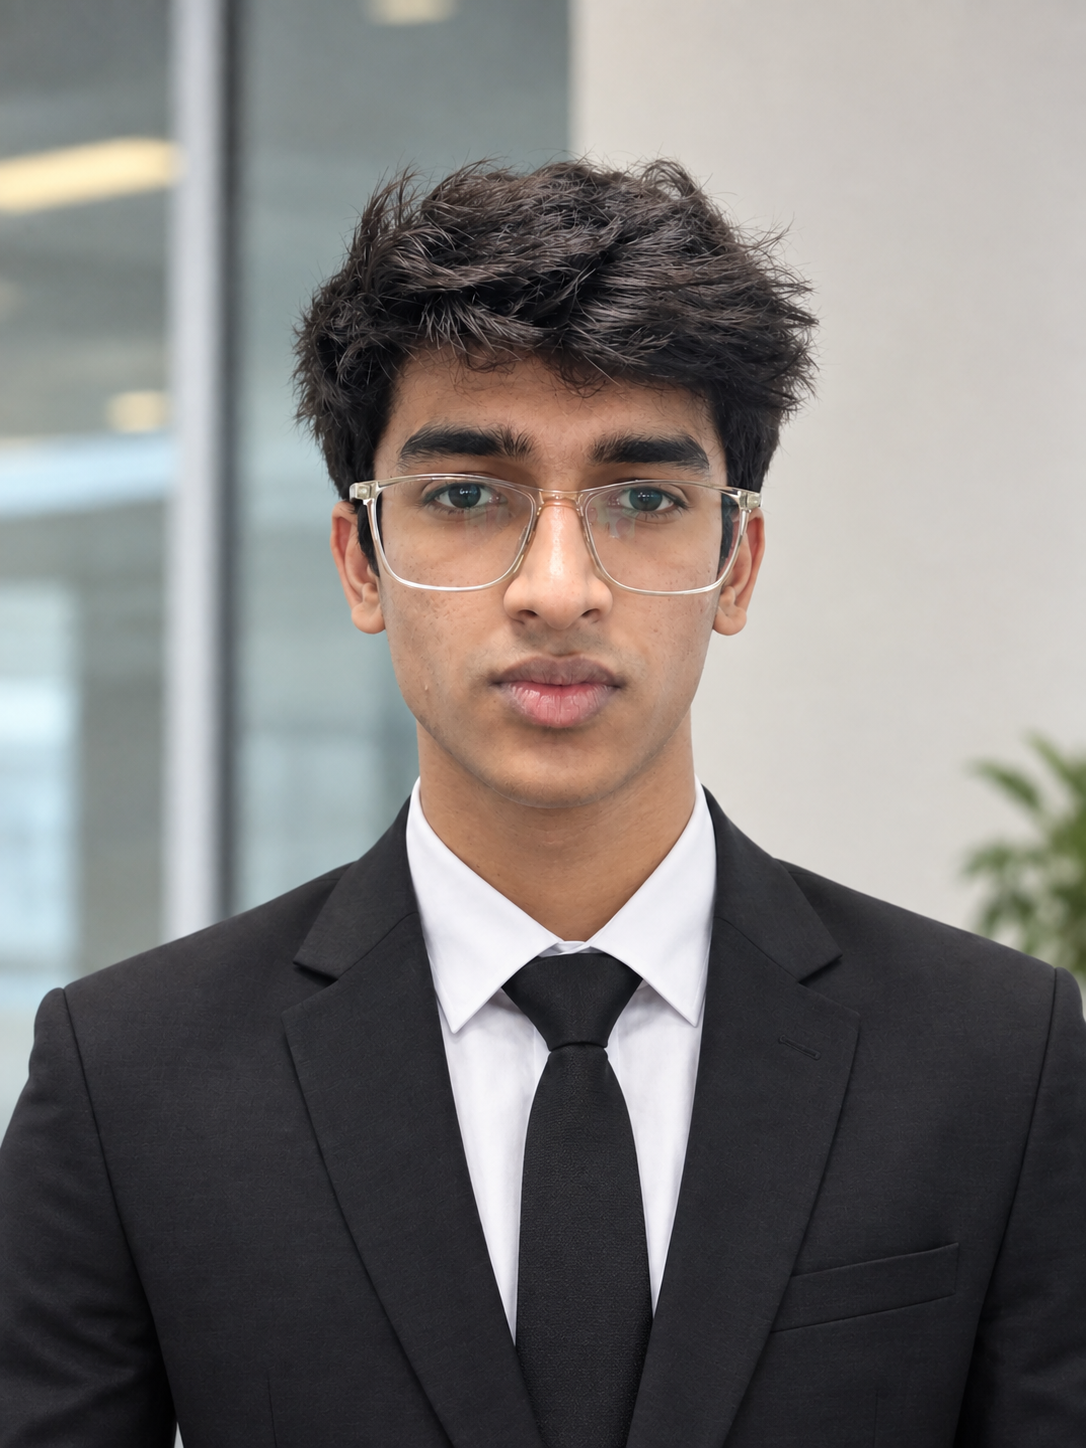
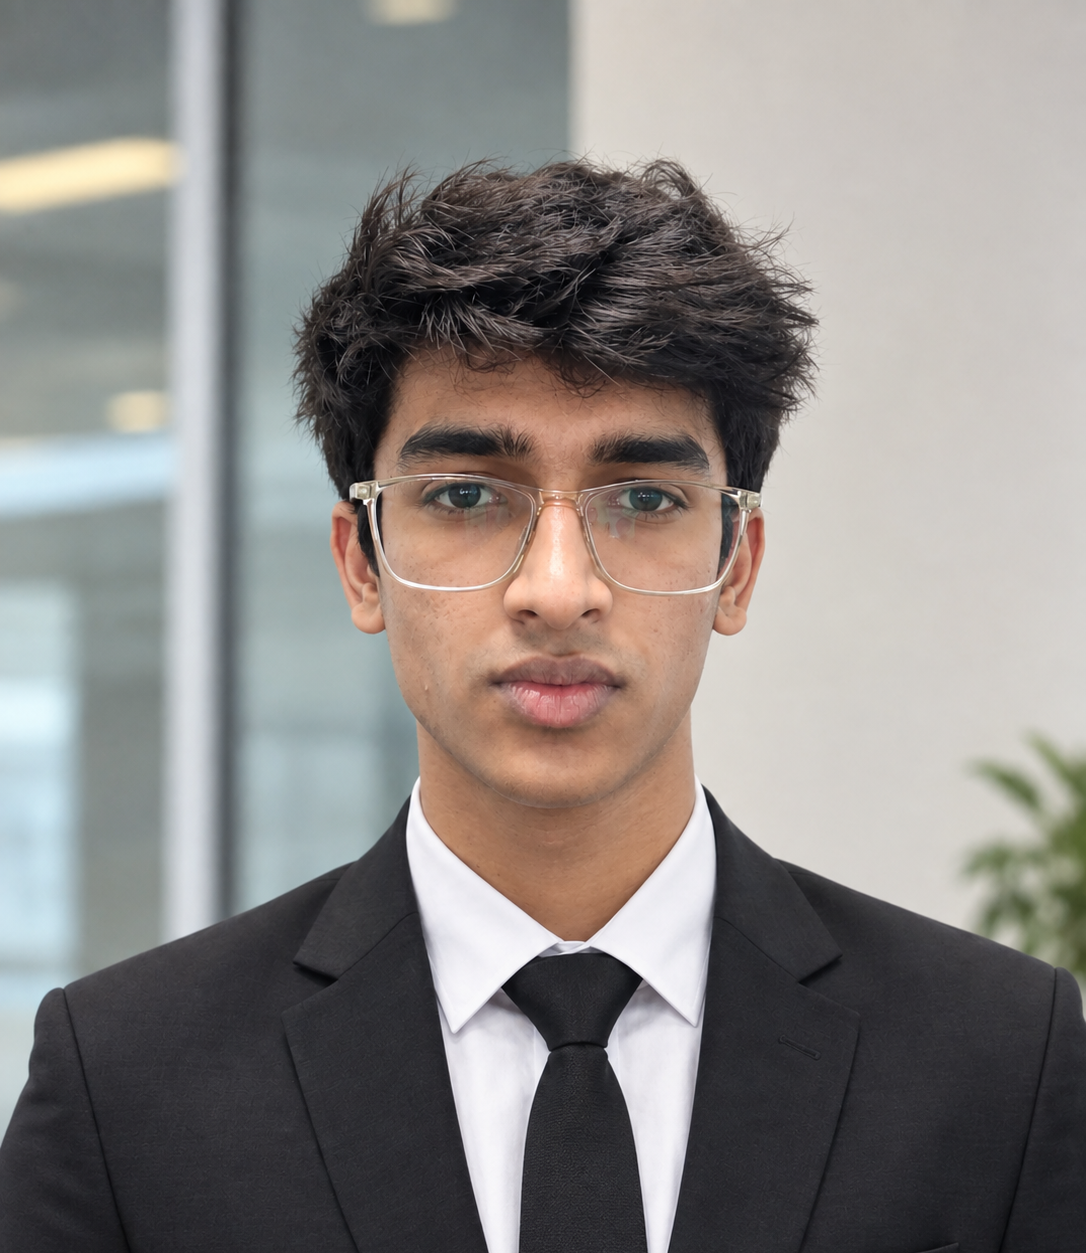
added the existing images some more to go....

diff --git a/src/data/teamData.js b/src/data/teamData.js
@@ -57,15 +57,31 @@ import ajitesh_jain from '../assets/Team-2025-2026/photo/ajitesh_jain.jpg';
 import tanishka_jaiswal from '../assets/Team-2025-2026/photo/tanishka_jaiswal.jpg';
 import tavleen_kaur from '../assets/Team-2025-2026/photo/tavleen_kaur.jpeg';
 
-// Team Members 2026-2027 (placeholders)
+// Team Members 2026-2027
+// Core team members
 import Aayush from '../assets/Team-2026-2027/Id_Card_Photos_GFG/Core/Aayush.jpg';
+import Himanshu from '../assets/Team-2026-2027/Id_Card_Photos_GFG/Core/Himanshu (Events).jpg';
+import Ravishankar from '../assets/Team-2026-2027/Id_Card_Photos_GFG/Core/Ravishankar Kanaki.png';
 import Ashutosh from '../assets/Team-2026-2027/Id_Card_Photos_GFG/Core/Ashutosh Kumar.png';
+import Sanju from '../assets/Team-2026-2027/Id_Card_Photos_GFG/Core/Marketing Head/Sanju Chauhan.jpg';
+import Riya from '../assets/Team-2026-2027/Id_Card_Photos_GFG/Core/Riya_kasat.jpeg';
+import Krishnam from '../assets/Team-2026-2027/Id_Card_Photos_GFG/Core/Krishnam Shukla.jpeg';
+import Nikita from '../assets/Team-2026-2027/Id_Card_Photos_GFG/Core/Nikita Mishra.png';
+
+// Working committee members
+import Sarthak from '../assets/Team-2026-2027/Id_Card_Photos_GFG/WC/EVENTS/Sarthak_Katariya.png';
+import Ashish from '../assets/Team-2026-2027/Id_Card_Photos_GFG/WC/EVENTS/ashish-singh-pfp.png';
+import Aryan from '../assets/Team-2026-2027/Id_Card_Photos_GFG/WC/EVENTS/Aryan.jpg';
+import Amitosh from '../assets/Team-2026-2027/Id_Card_Photos_GFG/WC/TECH/AMITOSH_20260909_124329.jpg';
+import Khushi from '../assets/Team-2026-2027/Id_Card_Photos_GFG/WC/MARKETING/Khushi_Marketing.jpeg';
+import Adhithya from '../assets/Team-2026-2027/Id_Card_Photos_GFG/WC/MARKETING/Adhithya Nair.jpg';
+import Aditya from '../assets/Team-2026-2027/Id_Card_Photos_GFG/WC/GRAPHICS/Aditya Chaurasia.jpg';
 
 export const teamData = {
   '2026-2027': [
     {
       id: 1,
-      name: 'Aayush',
+      name: 'Aayush Gupta',
       role: 'Chairperson',
       image: Aayush,
       bio: 'Details to be added',
@@ -75,9 +91,9 @@ export const teamData = {
     },
     {
       id: 2,
-      name: 'TBA',
+      name: 'Nikita Mishra',
       role: 'Vice Chairperson',
-      // image: '/api/placeholder/150/150',
+      image: Nikita,
       bio: 'Details to be added',
       github: '',
       linkedin: '',
@@ -85,17 +101,17 @@ export const teamData = {
     },
     {
       id: 3,
-      name: 'TBA',
+      name: 'Himanshu Gupta',
       role: 'Event Head',
-      // image: '/api/placeholder/150/150',
-      bio: 'Details to be added',
+      image: Himanshu,
+      bio: 'Java developer',
       github: '',
-      linkedin: '',
+      linkedin: 'https://www.linkedin.com/in/himanshugupta777',
       leetcode: '',
     },
     {
       id: 4,
-      name: 'TBA',
+      name: 'Gyaneshwar Jha',
       role: 'Technical Head',
       // image: '/api/placeholder/150/150',
       bio: 'Details to be added',
@@ -105,19 +121,19 @@ export const teamData = {
     },
     {
       id: 5,
-      name: 'TBA',
+      name: 'Sanju Chauhan',
       role: 'Marketing Head',
-      // image: '/api/placeholder/150/150',
-      bio: 'Details to be added',
+      image: Sanju,
+      bio: 'Leading marketing initiatives, promotions, collaborations, and community growth.',
       github: '',
-      linkedin: '',
-      leetcode: '',
+      linkedin: 'https://www.linkedin.com/in/sanju-chauhan-39b318379?utm_source=share_via&utm_content=profile&utm_medium=member_android',
+      leetcode: 'https://leetcode.com/u/Sanju_Chauhan/',
     },
     {
       id: 6,
-      name: 'TBA',
+      name: 'Ravishankar Kanaki',
       role: 'Graphics Head',
-      // image: '/api/placeholder/150/150',
+      image: Ravishankar,
       bio: 'Details to be added',
       github: '',
       linkedin: '',
@@ -125,17 +141,18 @@ export const teamData = {
     },
     {
       id: 7,
-      name: 'TBA',
+      name: 'Krishnam Shukla',
       role: 'Logistics Head',
-      // image: '/api/placeholder/150/150',
-      bio: 'Details to be added',
-      github: '',
-      linkedin: '',
+      image: Krishnam,
+      bio: 'I am a Computer Engineering student with a strong interest in competitive programming, software development, and problem-solving. I enjoy learning by building projects and challenging myself with programming problems.',
+      github: 'https://github.com/krishnam1321',
+      linkedin: 'http://www.linkedin.com/in/krishnam-shukla-b1a91b315',
       leetcode: '',
+      codolio: 'https://codolio.com/profile/Krishnam_Shukla',
     },
     {
       id: 8,
-      name: 'TBA',
+      name: 'Ashutosh Kumar',
       role: 'Web Head',
       image: Ashutosh,
       bio: 'Details to be added',
@@ -145,7 +162,7 @@ export const teamData = {
     },
     {
       id: 9,
-      name: 'TBA',
+      name: 'Tanishka Dombe',
       role: 'PR Outreach Head',
       // image: '/api/placeholder/150/150',
       bio: 'Details to be added',
@@ -155,19 +172,19 @@ export const teamData = {
     },
     {
       id: 10,
-      name: 'TBA',
+      name: 'Riya Kasat',
       role: 'Social Media Head',
-      // image: '/api/placeholder/150/150',
-      bio: 'Details to be added',
-      github: '',
-      linkedin: '',
+      image: Riya,
+      bio: 'Aspiring Full-Stack Developer skilled in web-dev and Java DSA, passionate about learning and building.',
+      github: 'https://github.com/Riyakk-11111',
+      linkedin: 'https://www.linkedin.com/in/riya-kasat-b85349370?utm_source=share_via&utm_content=profile&utm_medium=member_ios',
       leetcode: '',
     },
     {
       id: 11,
-      name: 'TBA',
+      name: 'Sarthak Katariya',
       role: 'Event Coordinator',
-      // image: '/api/placeholder/150/150',
+      image: Sarthak,
       bio: 'Details to be added',
       github: '',
       linkedin: '',
@@ -175,9 +192,9 @@ export const teamData = {
     },
     {
       id: 12,
-      name: 'TBA',
+      name: 'Ashish Singh',
       role: 'Event Coordinator',
-      // image: '/api/placeholder/150/150',
+      image: Ashish,
       bio: 'Details to be added',
       github: '',
       linkedin: '',
@@ -185,19 +202,19 @@ export const teamData = {
     },
     {
       id: 13,
-      name: 'TBA',
+      name: 'Aryan Ram',
       role: 'Event Coordinator',
-      // image: '/api/placeholder/150/150',
-      bio: 'Details to be added',
-      github: '',
-      linkedin: '',
-      leetcode: '',
+      image: Aryan,
+      bio: 'Motivated and responsible individual who enjoys working with people, taking initiative, solving problems, and creating meaningful results.',
+      github: 'https://github.com/arynram',
+      linkedin: 'https://www.linkedin.com/in/arynram/',
+      leetcode: 'https://leetcode.com/u/arynram/',
     },
     {
       id: 14,
-      name: 'TBA',
+      name: 'Amitosh',
       role: 'Technical Member',
-      // image: '/api/placeholder/150/150',
+      image: Amitosh,
       bio: 'Details to be added',
       github: '',
       linkedin: '',
@@ -216,7 +233,7 @@ export const teamData = {
     {
       id: 16,
       name: 'TBA',
-      role: 'Marketing Member',
+      role: 'Technical Member',
       // image: '/api/placeholder/150/150',
       bio: 'Details to be added',
       github: '',
@@ -225,9 +242,9 @@ export const teamData = {
     },
     {
       id: 17,
-      name: 'TBA',
+      name: 'Khushi',
       role: 'Marketing Member',
-      // image: '/api/placeholder/150/150',
+      image: Khushi,
       bio: 'Details to be added',
       github: '',
       linkedin: '',
@@ -235,6 +252,16 @@ export const teamData = {
     },
     {
       id: 18,
+      name: 'Adhithya Nair',
+      role: 'Marketing Member',
+      image: Adhithya,
+      bio: 'Details to be added',
+      github: '',
+      linkedin: '',
+      leetcode: '',
+    },
+    {
+      id: 19,
       name: 'TBA',
       role: 'Marketing Member',
       // image: '/api/placeholder/150/150',
@@ -244,7 +271,17 @@ export const teamData = {
       leetcode: '',
     },
     {
-      id: 19,
+      id: 20,
+      name: 'Aditya Chaurasia',
+      role: 'Graphics Member',
+      image: Aditya,
+      bio: 'Aspiring software developer skilled in programming, technology, problem-solving, and collaborative project development.',
+      github: 'https://github.com/adityamunnachaurasia-dot',
+      linkedin: 'https://www.linkedin.com/in/aditya-munna-chaurasia-726028284',
+      leetcode: 'https://leetcode.com/u/B9UXr8PIRL/',
+    },
+    {
+      id: 21,
       name: 'TBA',
       role: 'Graphics Member',
       // image: '/api/placeholder/150/150',
@@ -254,7 +291,7 @@ export const teamData = {
       leetcode: '',
     },
     {
-      id: 20,
+      id: 22,
       name: 'TBA',
       role: 'Graphics Member',
       // image: '/api/placeholder/150/150',

diff --git a/src/pages/Team.jsx b/src/pages/Team.jsx
@@ -141,7 +141,12 @@ const Team = () => {
       animate={{ opacity: 1, y: 0 }}
       transition={{ duration: 0.6, delay: delay + index * 0.1 }}
       whileHover={{ y: -10 }}
-      className="bg-gradient-to-br from-white to-gray-50 dark:from-gray-700 dark:to-gray-800 rounded-2xl p-4 shadow-lg hover:shadow-xl transition-all duration-300 h-[250px] flex flex-col w-[220px] flex-shrink-0"
+      onClick={(event) => {
+        if (!event.target.closest('a')) {
+          openLightbox(member);
+        }
+      }}
+      className="bg-gradient-to-br from-white to-gray-50 dark:from-gray-700 dark:to-gray-800 rounded-2xl p-4 shadow-lg hover:shadow-xl transition-all duration-300 h-[250px] flex flex-col w-[220px] flex-shrink-0 cursor-pointer"
     >
       <div className="relative mb-4 flex-shrink-0">        
         <div className="w-24 h-24 bg-gradient-to-r from-green-400 to-blue-500 rounded-full mx-auto flex items-center justify-center overflow-hidden">          
@@ -151,7 +156,6 @@ const Team = () => {
               src={member.image}
               alt={member.name}
               title="Click for seeing more"
-              onClick={() => openLightbox(member)}
               onError={(e) => {
                 e.target.style.display = 'none';
                 handleImageError(member.id);
@@ -175,7 +179,7 @@ const Team = () => {
         <h3 className="text-lg font-bold text-gray-900 dark:text-white mb-1">
           {member.name}
         </h3>
-        <p className="text-gray-600 dark:text-gray-400 text-xs leading-relaxed">
+        <p className="text-gray-600 dark:text-gray-400 text-xs leading-relaxed line-clamp-2">
           {member.bio}
         </p>
       </div>
